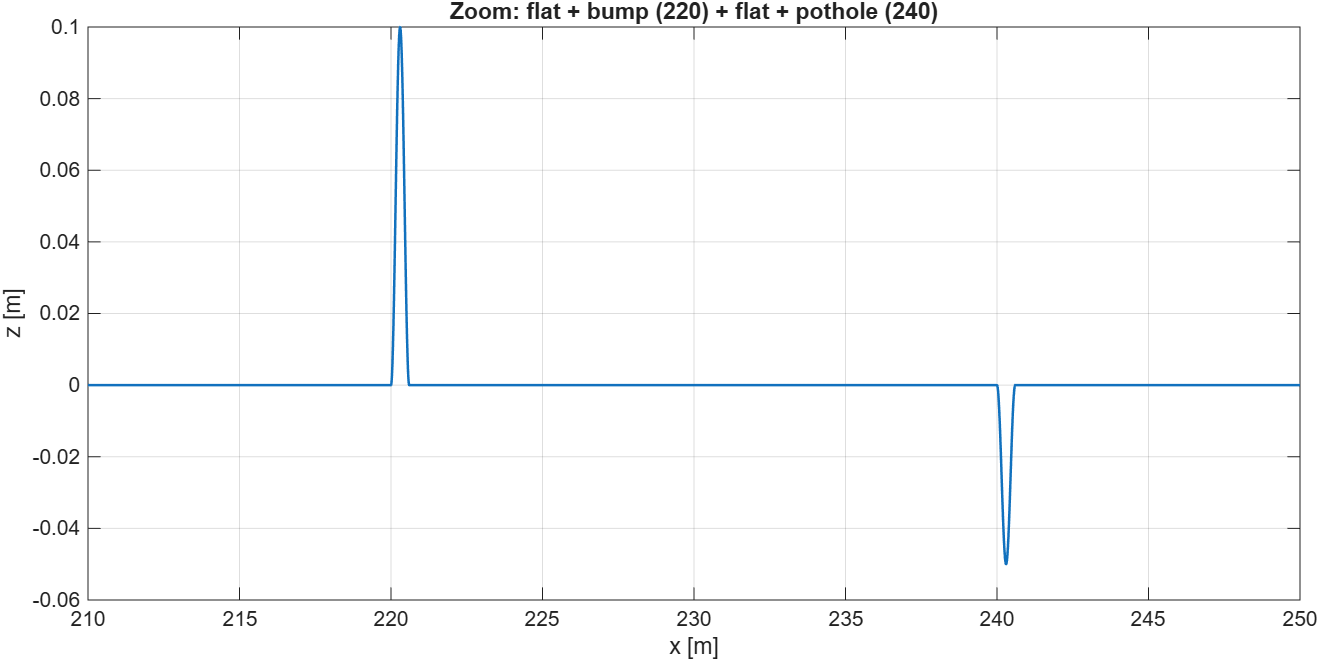
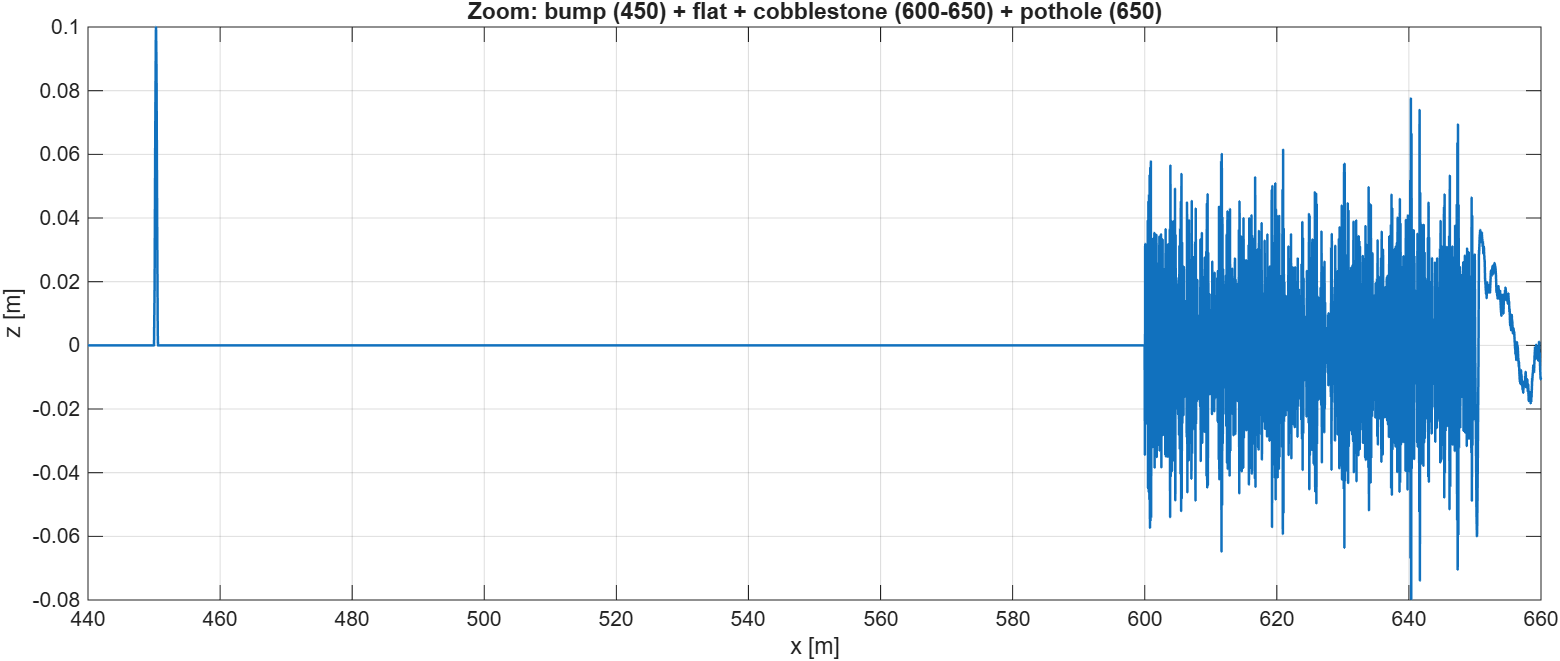
Extend compose to all patterns, add scenario showcase
- compose: dispatch to all 15 patterns, derive seeds for iso8608/cobblestone/belgianBlock with SeedUsed registered

- TestCompose: add cobblestone and belgianBlock reproducibility tests (total 24)

- TestComposeAllPatterns: parameterized dispatch test for all 15 patterns

- examples/scenario_showcase.m: overview (dx=0.02) and zoom (dx=0.005) plots

- DESIGN: add §14 on stochastic patterns and seed handling

diff --git a/examples/scenario_showcase.m b/examples/scenario_showcase.m
@@ -1,0 +1,52 @@
+%SCENARIO_SHOWCASE Build a realistic scenario with compose and save plots.
+%   Produces two figures:
+%     - results/scenario_showcase.png: full 1000 m scenario, coarse grid
+%       (dx = 0.02 m) to keep the plot readable at page width
+%     - results/scenario_zoom.png: 400-660 m, fine grid (dx = 0.005 m) to
+%       show the two events (bump and pothole) clearly
+
+clear; clc; close all;
+
+here = fileparts(mfilename('fullpath'));
+repoRoot = fileparts(here);
+outDir = fullfile(repoRoot, 'results');
+if ~exist(outDir, 'dir'), mkdir(outDir); end
+
+L = 1000;
+segs = [
+    struct('Start',   0, 'Stop', 250, 'Type', "iso8608",     'Params', {{'B'}})
+    struct('Start', 250, 'Stop', 400, 'Type', "belgianBlock", 'Params', {{0.03, 0.20}})
+    struct('Start', 400, 'Stop', 450, 'Type', "flat",         'Params', {{}})
+    struct('Start', 450, 'Stop', 450.6, 'Type', "bump",       'Params', {{0.10, 0.6, 0}})
+    struct('Start', 450.6, 'Stop', 600, 'Type', "flat",       'Params', {{}})
+    struct('Start', 600, 'Stop', 650, 'Type', "cobblestone",  'Params', {{0.02, 0.10}})
+    struct('Start', 650, 'Stop', 650.6, 'Type', "pothole",    'Params', {{0.06, 0.6, 0}})
+    struct('Start', 650.6, 'Stop', 850, 'Type', "iso8608",    'Params', {{'C'}})
+    struct('Start', 850, 'Stop', 900, 'Type', "washboard",    'Params', {{0.02, 0.5}})
+    struct('Start', 900, 'Stop', 1000, 'Type', "iso8608",     'Params', {{'D'}})
+    ];
+
+% --- Overview (coarse grid)
+dx = 0.02;
+p = roadprofile.compose(L, dx, segs, Seed=42);
+fig1 = figure('Color', 'w', 'Position', [100 100 1500 450]);
+plot(p.x, p.z, 'LineWidth', 0.6);
+grid on;
+xlabel('x [m]');
+ylabel('z [m]');
+title('Composed scenario (overview, dx = 0.02 m)');
+exportgraphics(fig1, fullfile(outDir, 'scenario_showcase.png'), 'Resolution', 150);
+fprintf('Saved %s\n', fullfile(outDir, 'scenario_showcase.png'));
+
+% --- Zoom on the two events (fine grid)
+dxZ = 0.005;
+pZ = roadprofile.compose(L, dxZ, segs, Seed=42);
+fig2 = figure('Color', 'w', 'Position', [100 100 1200 450]);
+plot(pZ.x, pZ.z, 'LineWidth', 1.2);
+grid on;
+xlim([440 660]);
+xlabel('x [m]');
+ylabel('z [m]');
+title('Zoom: bump (450) + flat + cobblestone (600-650) + pothole (650)');
+exportgraphics(fig2, fullfile(outDir, 'scenario_zoom.png'), 'Resolution', 150);
+fprintf('Saved %s\n', fullfile(outDir, 'scenario_zoom.png'));

diff --git a/src/+roadprofile/compose.m b/src/+roadprofile/compose.m
@@ -93,14 +93,61 @@ for k = 1:numel(segments)
                 end
                 segZ = roadprofile.iso8608Profile(Lseg, dx, seg.Params{:}, Seed=derivedSeed);
                 segmentsOut(k).SeedUsed = derivedSeed;
+
+            case 'cobblestone'
+                if ~isempty(options.Seed)
+                    derivedSeed = randi(stream, [1, 2^31 - 1]);
+                else
+                    derivedSeed = randi([1, 2^31 - 1]);
+                end
+                segZ = roadprofile.cobblestone(Lseg, dx, seg.Params{:}, Seed=derivedSeed);
+                segmentsOut(k).SeedUsed = derivedSeed;
+
+            case 'belgianBlock'
+                if ~isempty(options.Seed)
+                    derivedSeed = randi(stream, [1, 2^31 - 1]);
+                else
+                    derivedSeed = randi([1, 2^31 - 1]);
+                end
+                segZ = roadprofile.belgianBlock(Lseg, dx, seg.Params{:}, Seed=derivedSeed);
+                segmentsOut(k).SeedUsed = derivedSeed;
+
+            case 'multiSine'
+                segZ = roadprofile.multiSine(Lseg, dx, seg.Params{:});
+
+            case 'chirp'
+                segZ = roadprofile.chirp(Lseg, dx, seg.Params{:});
+
+            case 'washboard'
+                segZ = roadprofile.washboard(Lseg, dx, seg.Params{:});
+
+            case 'valley'
+                segZ = roadprofile.valley(Lseg, dx, seg.Params{:});
+
+            case 'step'
+                segZ = roadprofile.step(Lseg, dx, seg.Params{:});
+
+            case 'kink'
+                segZ = roadprofile.kink(Lseg, dx, seg.Params{:});
+
+            case 'edge'
+                segZ = roadprofile.edge(Lseg, dx, seg.Params{:});
+
+            case 'crest'
+                segZ = roadprofile.crest(Lseg, dx, seg.Params{:});
+
             case 'sine'
                 segZ = roadprofile.sine(Lseg, dx, seg.Params{:});
+
             case 'bump'
                 segZ = roadprofile.bump(Lseg, dx, seg.Params{:});
+
             case 'pothole'
                 segZ = roadprofile.pothole(Lseg, dx, seg.Params{:});
+
             case 'flat'
                 segZ = roadprofile.flat(Lseg, dx, seg.Params{:});
+
             otherwise
                 error('roadprofile:unknownPattern', ...
                     'Segment %d has unknown type "%s"', k, seg.Type);

diff --git a/tests/TestComposeAllPatterns.m b/tests/TestComposeAllPatterns.m
@@ -1,0 +1,39 @@
+classdef TestComposeAllPatterns < matlab.unittest.TestCase
+    %TestComposeAllPatterns Verify that compose dispatches to every
+    %   pattern in the catalog with a minimal valid segment.
+
+    properties (TestParameter)
+        Segment = struct( ...
+            'iso8608',      struct('Type', "iso8608",      'Params', {{'B'}}), ...
+            'sine',         struct('Type', "sine",         'Params', {{0.5, 0.01}}), ...
+            'washboard',    struct('Type', "washboard",    'Params', {{0.02, 0.5}}), ...
+            'belgianBlock', struct('Type', "belgianBlock", 'Params', {{0.03, 0.2}}), ...
+            'cobblestone',  struct('Type', "cobblestone",  'Params', {{0.02, 0.1}}), ...
+            'bump',         struct('Type', "bump",         'Params', {{0.10, 0.6, 0}}), ...
+            'pothole',      struct('Type', "pothole",      'Params', {{0.05, 0.6, 0}}), ...
+            'crest',        struct('Type', "crest",        'Params', {{0.05, 0.6, 0}}), ...
+            'valley',       struct('Type', "valley",       'Params', {{0.05, 0.6, 0}}), ...
+            'edge',         struct('Type', "edge",         'Params', {{0.05, 2, 4}}), ...
+            'step',         struct('Type', "step",         'Params', {{0.05, 2}}), ...
+            'kink',         struct('Type', "kink",         'Params', {{2, 0.01, -0.01}}), ...
+            'chirp',        struct('Type', "chirp",        'Params', {{0.5, 2.0, 0.01}}), ...
+            'multiSine',    struct('Type', "multiSine",    'Params', {{[1, 2], [0.01, 0.005]}}), ...
+            'flat',         struct('Type', "flat",         'Params', {{0.02}}))
+    end
+
+    methods (Test)
+        function test_compose_dispatches(testCase, Segment)
+            %test_compose_dispatches Verify that compose can dispatch
+            %   to every catalog pattern without error.
+            L = 10; dx = 0.01;
+            segs = struct( ...
+                'Start', 2, ...
+                'Stop', 8, ...
+                'Type', Segment.Type, ...
+                'Params', {Segment.Params});
+            p = roadprofile.compose(L, dx, segs, Seed=42);
+            testCase.verifyEqual(numel(p.z), round(L/dx));
+            testCase.verifyTrue(all(isfinite(p.z)));
+        end
+    end
+end

diff --git a/tests/TestCompose.m b/tests/TestCompose.m
@@ -271,5 +271,35 @@ classdef TestCompose < matlab.unittest.TestCase
             testCase.verifyEqual(p.segments(1).Stop, L);
             testCase.verifyEqual(p.segments(1).Type, "flat");
         end
+
+        function test_compose_cobblestone_reproducible(testCase)
+            %test_compose_cobblestone_reproducible Verify that a
+            %   cobblestone segment is reproducible via SeedUsed.
+            L = 10; dx = 0.005;
+            segs = struct('Start', 0, 'Stop', L, 'Type', "cobblestone", ...
+                'Params', {{0.02, 0.1}});
+            p1 = roadprofile.compose(L, dx, segs, Seed=42);
+            p2 = roadprofile.compose(L, dx, segs, Seed=42);
+            testCase.verifyEqual(p1.z, p2.z, 'AbsTol', 1e-12);
+
+            derivedSeed = p1.segments(1).SeedUsed;
+            pDirect = roadprofile.cobblestone(L, dx, 0.02, 0.1, Seed=derivedSeed);
+            testCase.verifyEqual(p1.z, pDirect.z, 'AbsTol', 1e-12);
+        end
+
+        function test_compose_belgian_reproducible(testCase)
+            %test_compose_belgian_reproducible Verify that a belgianBlock
+            %   segment is reproducible via SeedUsed.
+            L = 10; dx = 0.005;
+            segs = struct('Start', 0, 'Stop', L, 'Type', "belgianBlock", ...
+                'Params', {{0.03, 0.2}});
+            p1 = roadprofile.compose(L, dx, segs, Seed=42);
+            p2 = roadprofile.compose(L, dx, segs, Seed=42);
+            testCase.verifyEqual(p1.z, p2.z, 'AbsTol', 1e-12);
+
+            derivedSeed = p1.segments(1).SeedUsed;
+            pDirect = roadprofile.belgianBlock(L, dx, 0.03, 0.2, Seed=derivedSeed);
+            testCase.verifyEqual(p1.z, pDirect.z, 'AbsTol', 1e-12);
+        end
     end
 end

diff --git a/docs/DESIGN.md b/docs/DESIGN.md
@@ -232,3 +232,38 @@ added as an optional feature in a future release if needed.
 
 **Empty segments.** An empty `segments` array is valid and produces a
 flat zero profile.
+
+## 14. Stochastic patterns and seed handling
+
+Three patterns are stochastic: `iso8608Profile`, `belgianBlock`,
+`cobblestone`. Each accepts an optional `Seed` name-value argument.
+
+**Reference behavior.** With a `Seed` supplied, the pattern saves the
+global `rng` state, sets `rng(Seed, 'twister')`, generates, and restores
+the global state via `onCleanup`. Without a `Seed`, the pattern uses the
+current global `rng` state and produces a different realization at each
+call.
+
+**Reproducibility.** `compose` derives a distinct seed for every
+stochastic segment, whether or not a global `Seed` is given. The
+derived seed is stored in `p.segments(k).SeedUsed`, so each segment can
+be regenerated individually with
+`pattern(Lseg, dx, ..., Seed=SeedUsed)`. To replay the whole
+composition, save the `SeedUsed` values or pass a global `Seed`.
+
+**Determinism of the generator.** `rng(Seed, 'twister')` pins the
+algorithm, so a given seed produces the same profile regardless of
+which generator was active before. This is independent of the `rng`
+default, which can change across MATLAB releases.
+
+**Direct use.** Patterns called directly with a fixed `Seed` are
+deterministic. Patterns called directly without a `Seed` are not. There
+is no auto-derivation at the pattern level: `compose` is the only
+function that derives seeds automatically, and it does so for all
+stochastic segments it receives.
+
+**Anti-aliasing.** The profiles are sampled at `dx`; features smaller
+than `2*dx` cannot be represented and are not band-limited. Rendering
+a long profile at page width compresses many samples into few pixels
+and may look blocky. For readable figures, use `dx` comparable to
+the smallest feature you want to show, or plot a zoom.
